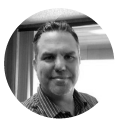
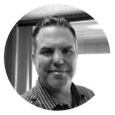
Normalize headshot pictures. Update titles and order

diff --git a/index.html b/index.html
@@ -358,23 +358,7 @@
                         <img src="images/Headshot-BryanLevenson.png"/>
                     </div>
                     <h4>Bryan Levenson</h4>
-                    <p>Founder | CEO: Product, Cloud Architecture & Operations</p>
-                </div>
-
-                <div class="mdl-cell mdl-cell--4-col">
-                    <div class="picture">
-                        <img src="images/Headshot-LukeStewart.png"/>
-                    </div>
-                    <h4>Luke Stewart</h4>
-                    <p>Co / Founder | Director of Analytics and Engineering: Scala, SPARK, Data Science, ML, AI</p>
-                </div>
-
-                <div class="mdl-cell mdl-cell--4-col">
-                    <div class="picture">
-                        <img src="images/Headshot-JorgeOlmos.png"/>
-                    </div>
-                    <h4>Jorge Olmos</h4>
-                    <p>Co / Founder | Director of Software Development: Android (Java), SPARK, Scala, ML, AI</p>
+                    <p>Founder | CEO: Product, Cloud Architecture, Operations</p>
                 </div>
 
                 <div class="mdl-cell mdl-cell--4-col">
@@ -382,7 +366,23 @@
                         <img src="images/Headshot-PatrickWienkam.png"/>
                     </div>
                     <h4>Dr. Patrick Weinkam</h4>
-                    <p>Co / Founder | CTO: AI, ML, Data Science</p>
+                    <p>Co / Founder | CTO: Data Science, Backend</p>
+                </div>
+
+                <div class="mdl-cell mdl-cell--4-col">
+                    <div class="picture">
+                        <img src="images/Headshot-LukeStewart.png"/>
+                    </div>
+                    <h4>Luke Stewart</h4>
+                    <p>Co / Founder | Director of Analytics and Engineering: Middleware, Backend, Data Science</p>
+                </div>
+
+                <div class="mdl-cell mdl-cell--4-col">
+                    <div class="picture">
+                        <img src="images/Headshot-JorgeOlmos.png"/>
+                    </div>
+                    <h4>Jorge Olmos</h4>
+                    <p>Co / Founder | Director of Software Development: Mobile, Web, Middleware</p>
                 </div>
 
                 <div class="mdl-cell mdl-cell--4-col">

diff --git a/styles.css b/styles.css
@@ -227,7 +227,7 @@ navigation li a.active {
 }
 
 .header .mdl-layout__header-row {
-    padding-left: 40px;
+    padding-left: 20px;
 }
 
 .demo-container {
@@ -373,6 +373,7 @@ navigation li a.active {
     font-size: 16px;
     line-height: 22px;
     text-align: left;
+    margin-bottom: 10px;
     color: #3A3A3A;
 }
 
